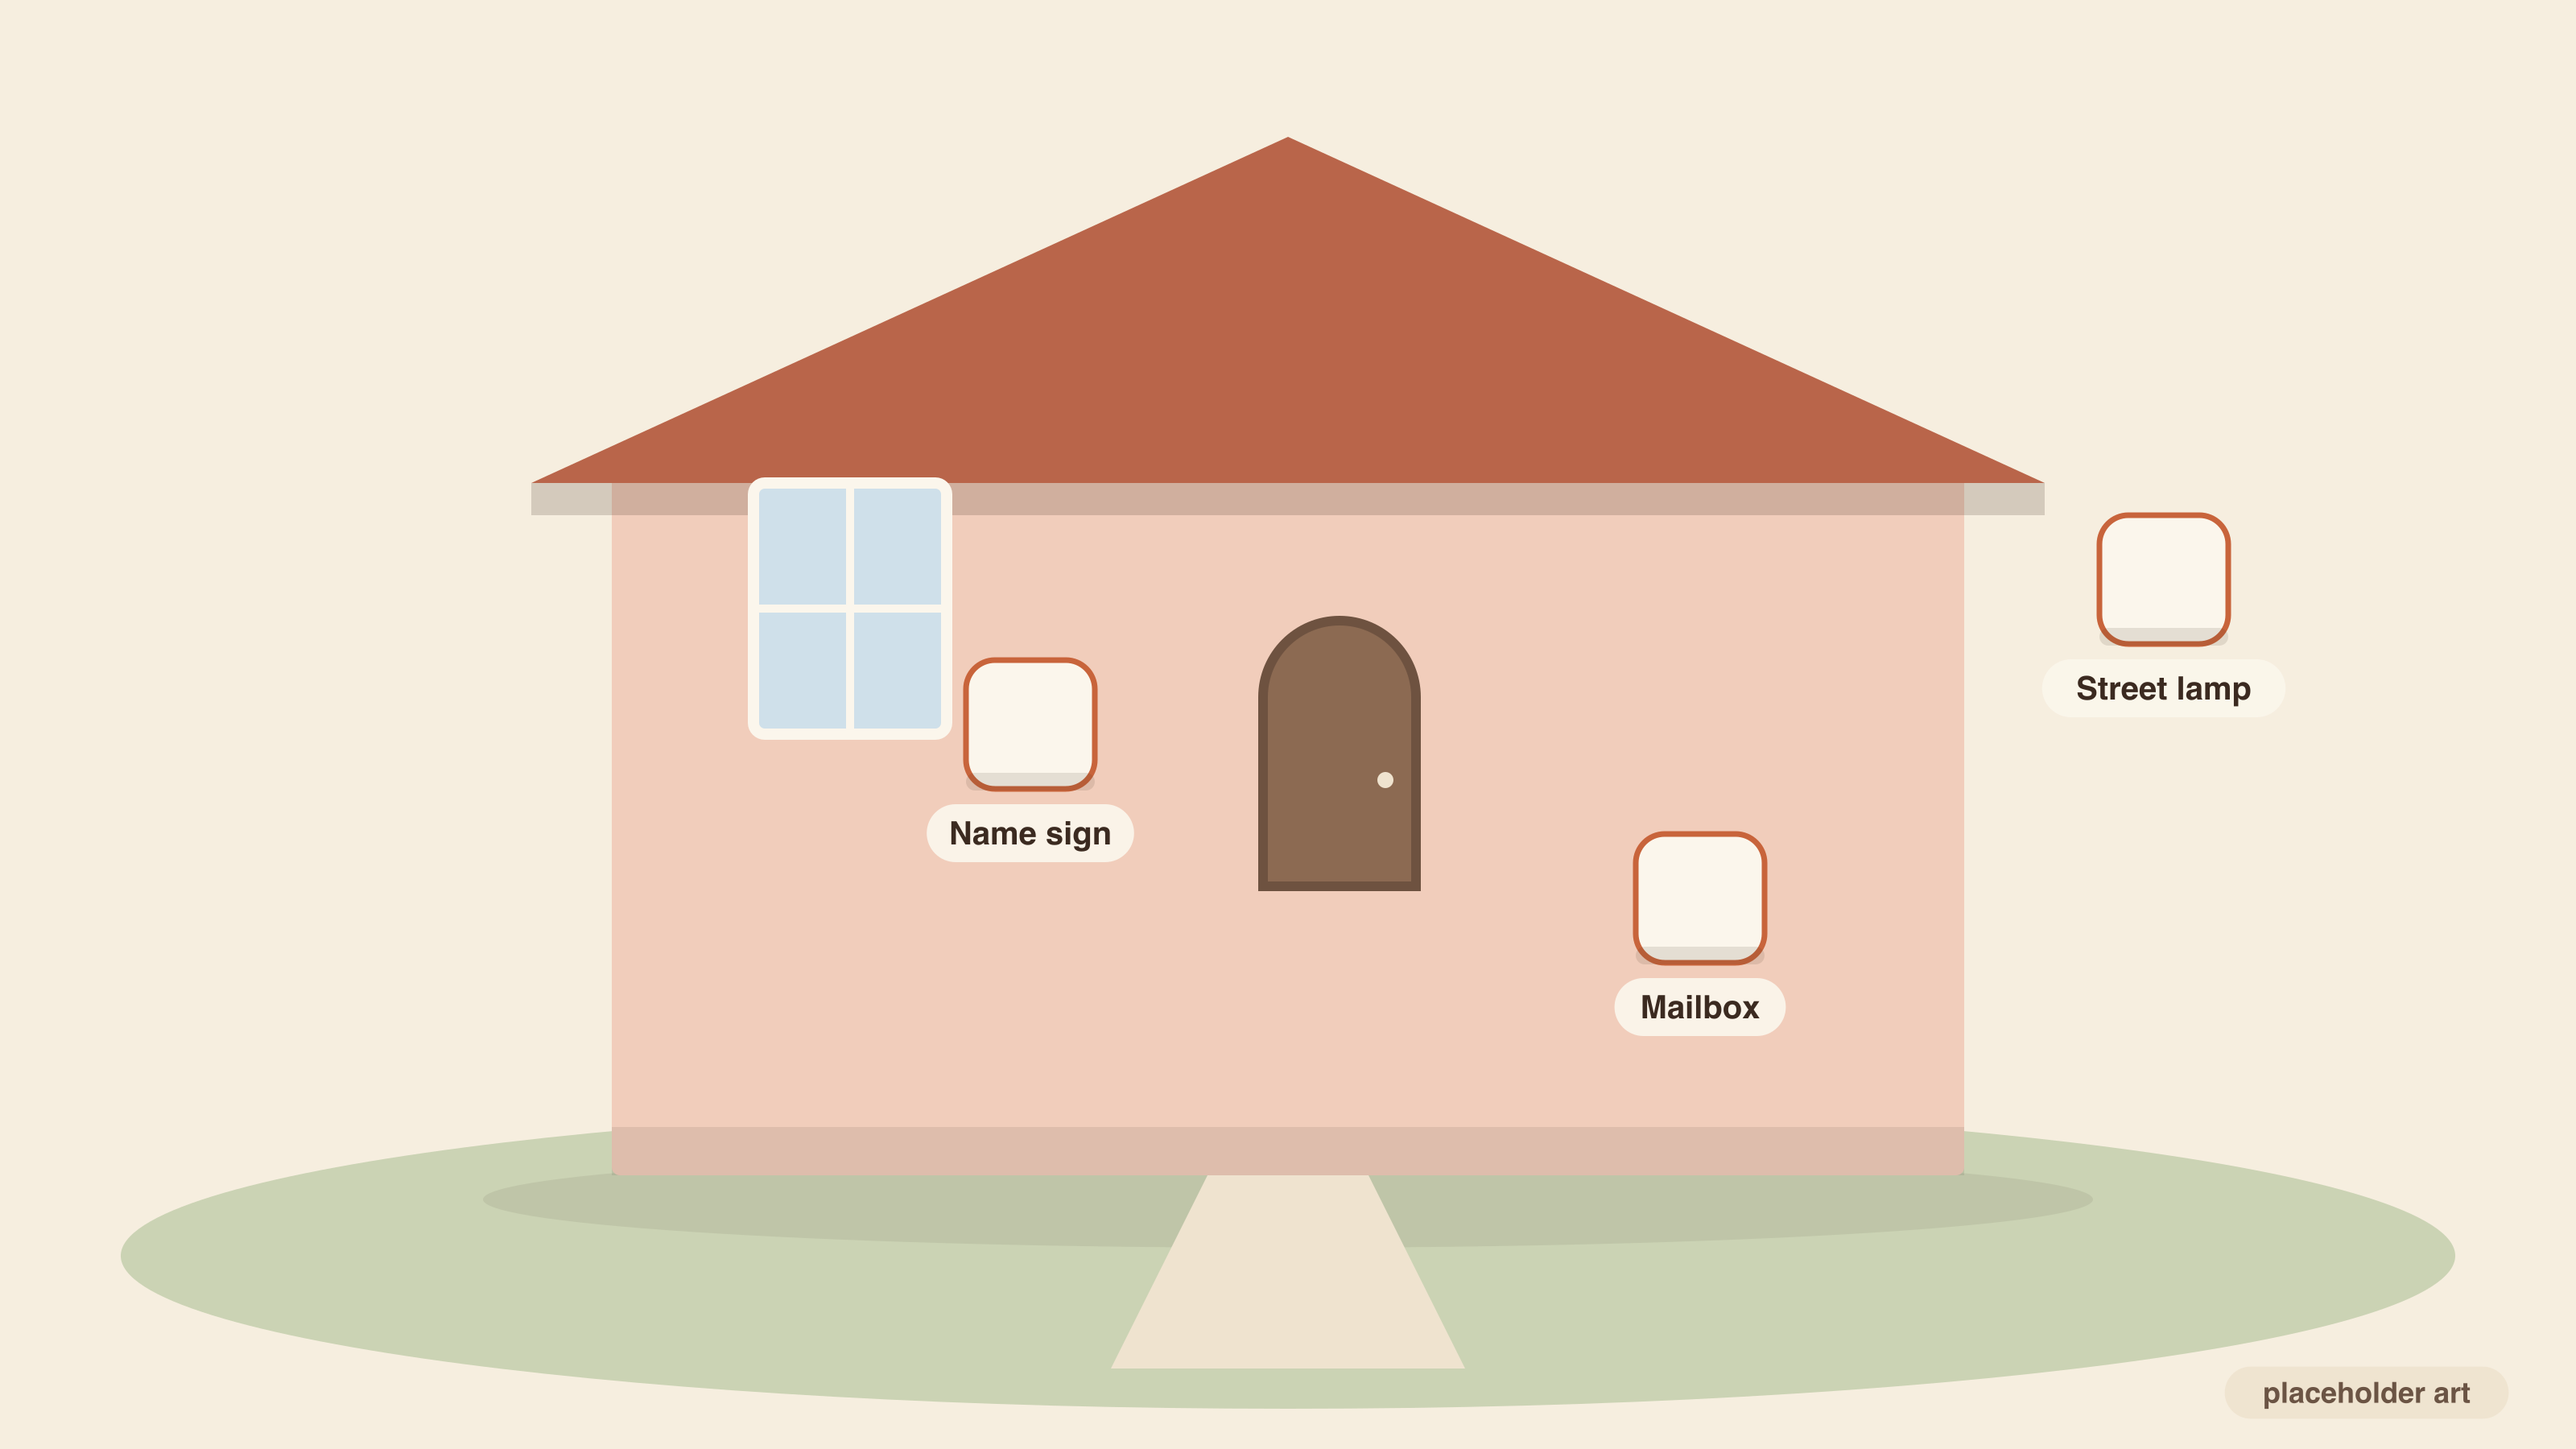
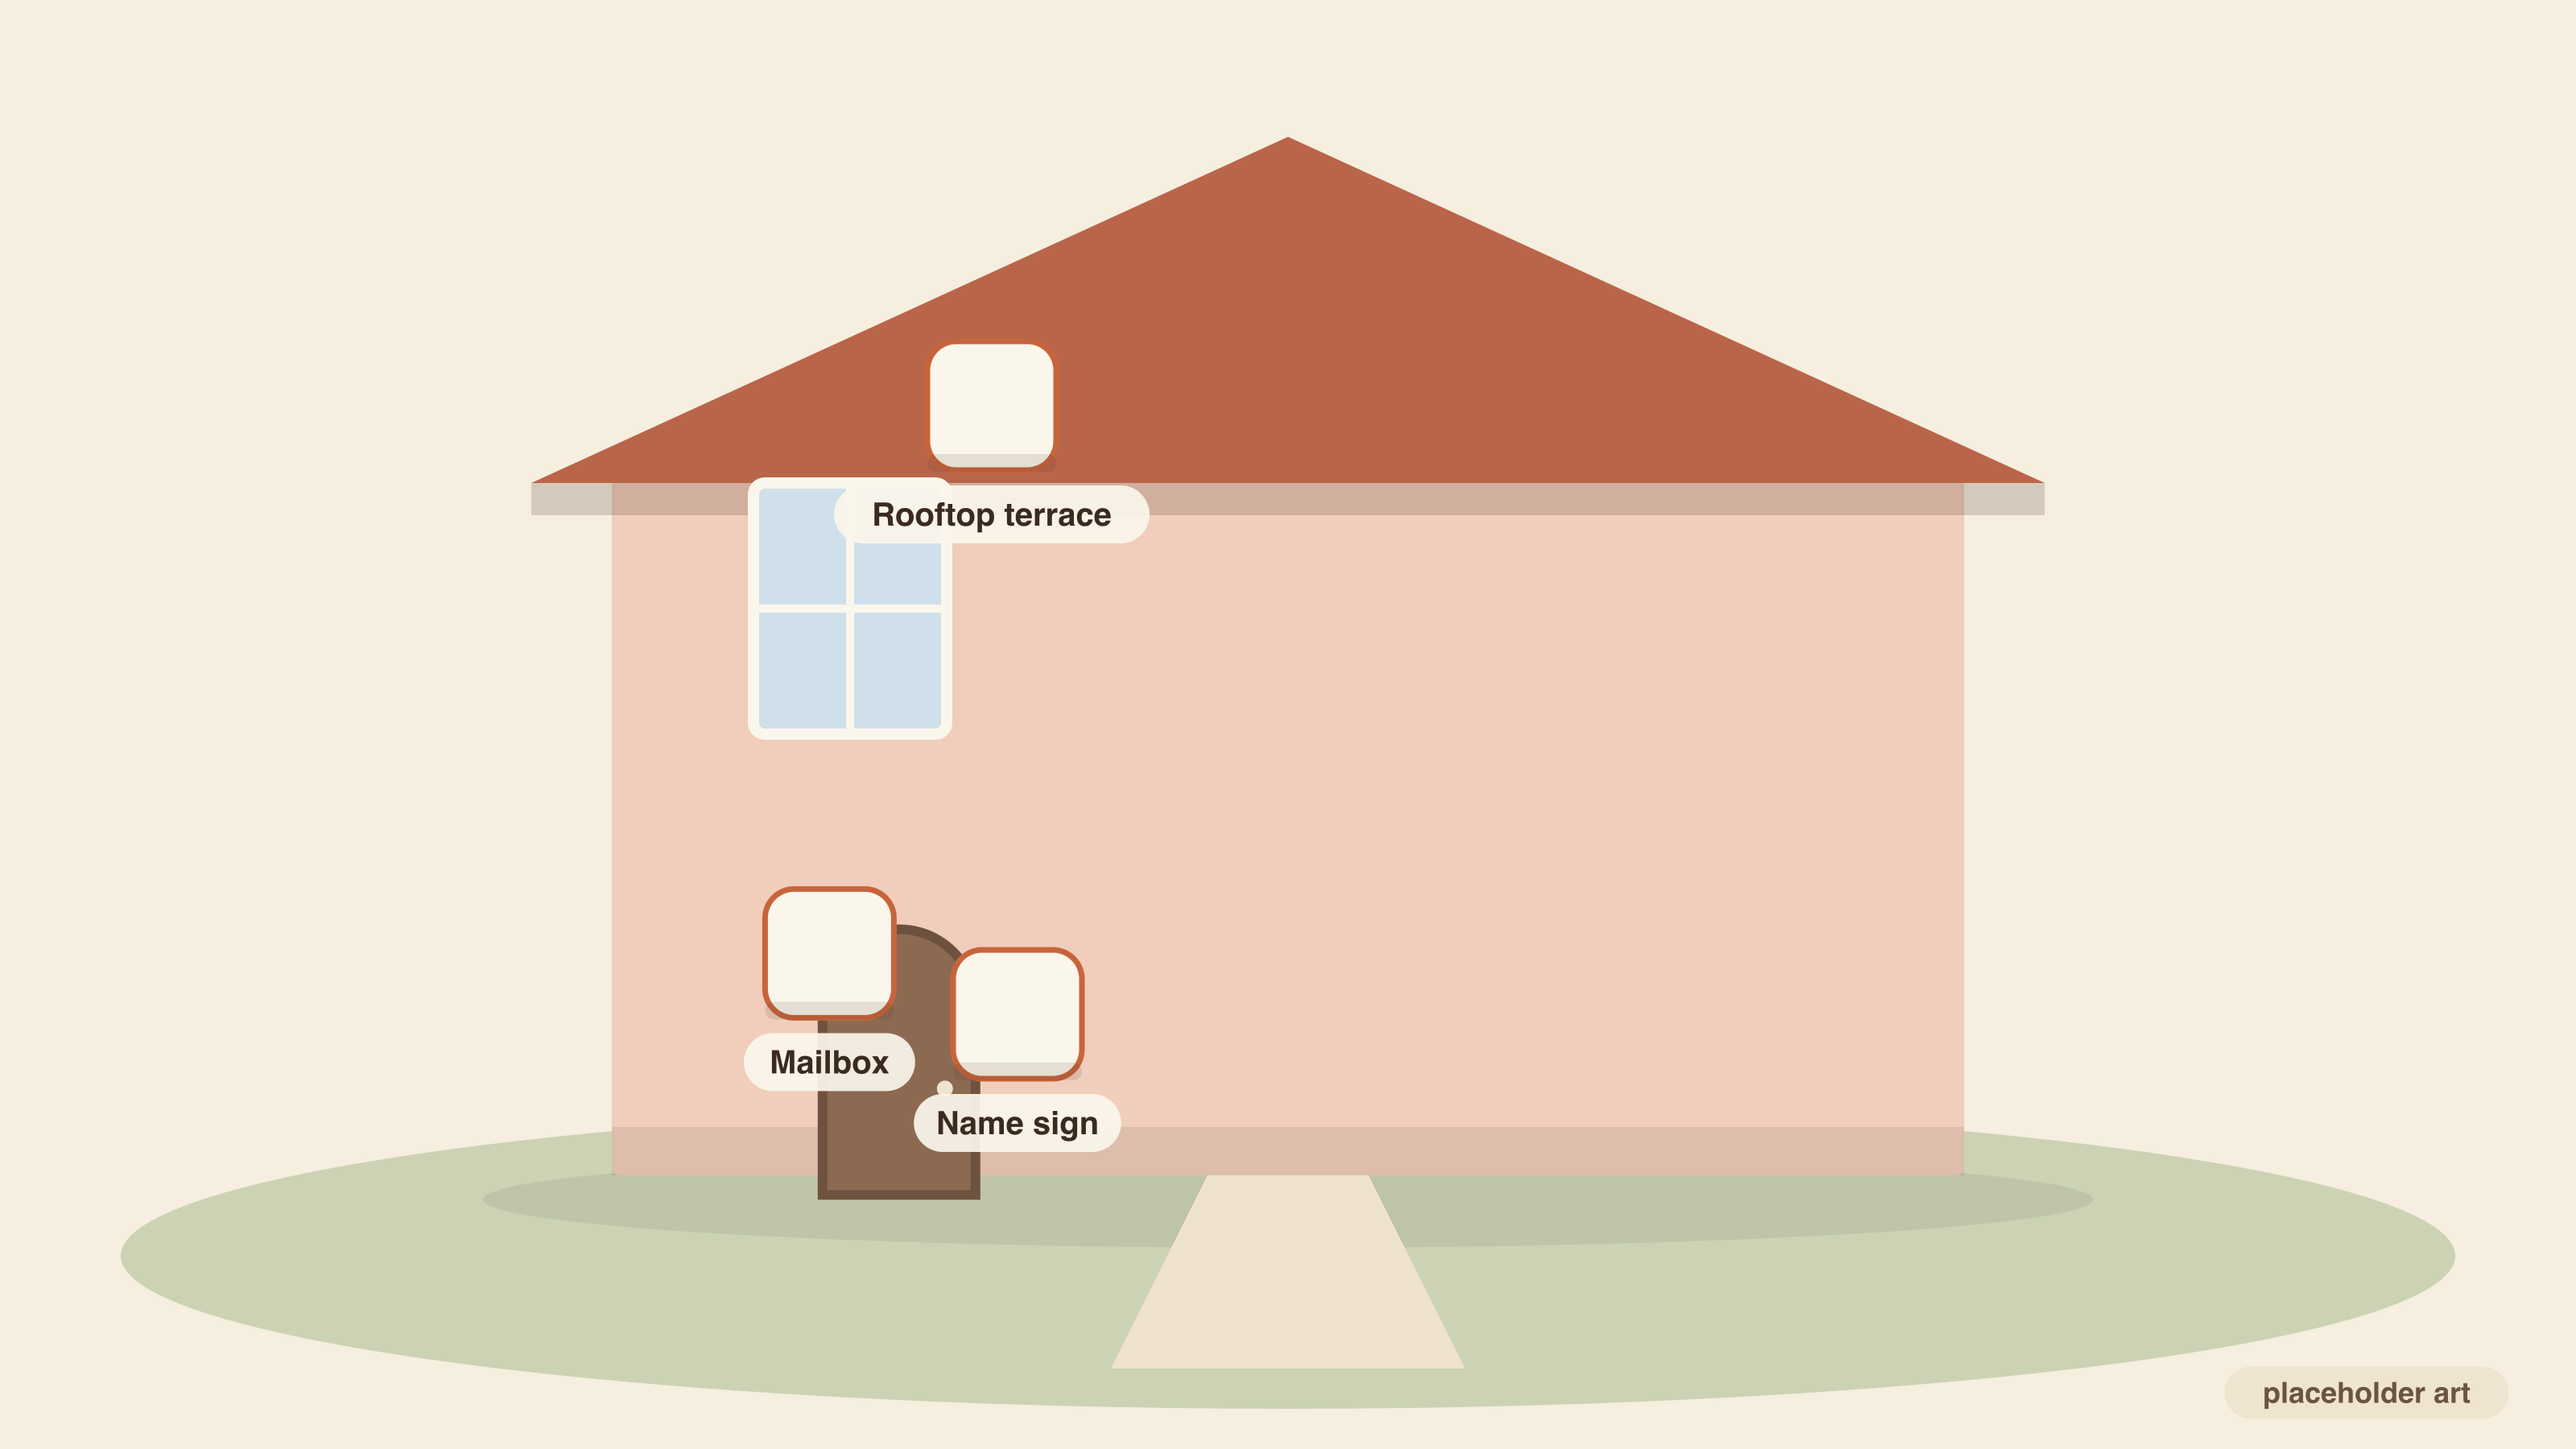
Add the front render and place its pins
- Front render (Gemini, 1376x768; owner confirmed it's not a real
  building) upscaled 2x to 2752x1536, no metadata.
- Pins on the art: "Come in" on the entrance door, mailbox on the grey
  wall box, name sign beside the entrance.
- The render has no street lamp, so the lighting easter egg moves to the
  rooftop terrace ("rooftop", "Rooftop terrace"); same speech bubble.
- New alt text for the front (BG draft).

Local QA: typecheck, lint, 41 unit tests, 58 e2e (2 device skips) pass.

diff --git a/tests/e2e/closeup.spec.ts b/tests/e2e/closeup.spec.ts
@@ -153,10 +153,10 @@ test('printing the recipe prints only the recipe', async ({ page }) => {
   await expect(page.locator('.print-root')).toBeVisible();
 });
 
-test('the street lamp cycles the lighting instead of opening a close-up', async ({ page }) => {
+test('the rooftop terrace cycles the lighting instead of opening a close-up', async ({ page }) => {
   await page.goto('./');
   await waitForRoom(page, 'front');
-  await page.getByRole('button', { name: 'Street lamp: Lighting' }).click();
+  await page.getByRole('button', { name: 'Rooftop terrace: Lighting' }).click();
   await expect(page.getByText("I'm a night person, honestly. Click me again.")).toBeVisible();
   await expect(closeUp(page)).toHaveCount(0);
   await expect(page).toHaveURL(/\/$/);
